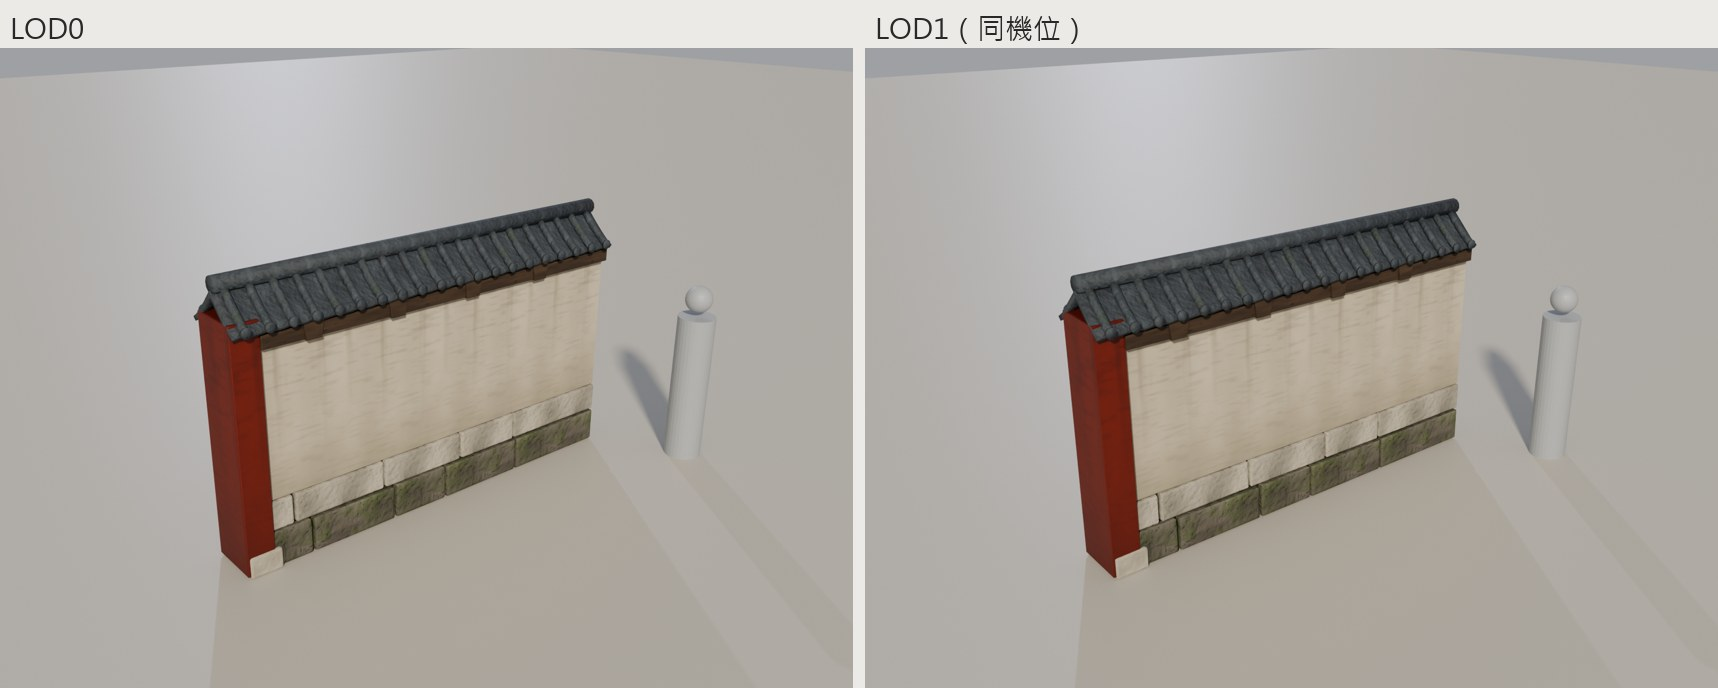
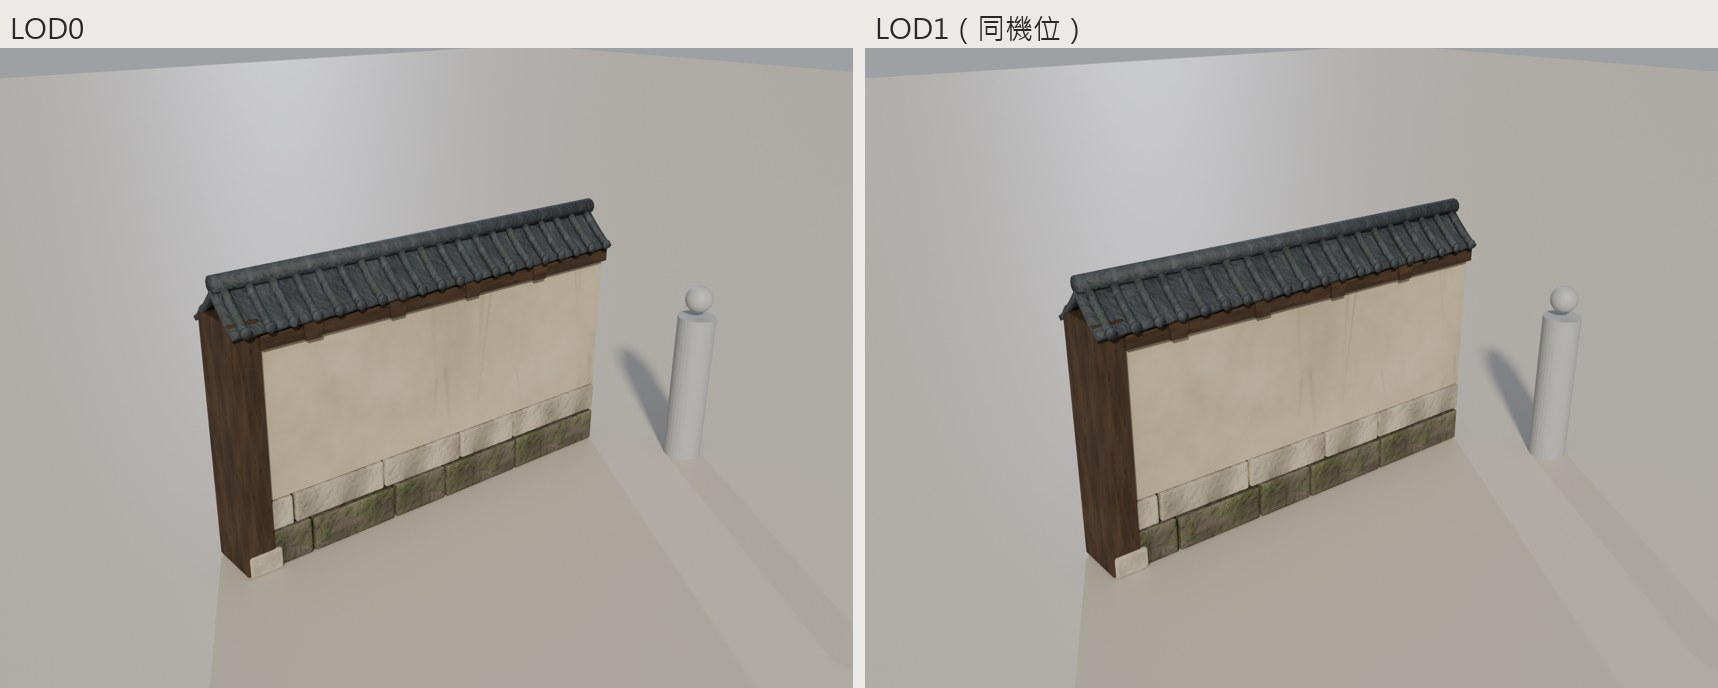
TX04: review round 1 - dark cedar wall post, lacquer on doors/plaque frame/lintel band, irregular TX04 plaster tile, close door gap

Changed region(s): [[0.617, 0.4578, 0.6787, 0.8241], [0.0925, 0.4578, 0.1851, 0.8241]]

diff --git a/art/source/tx04-branch-court/build_tx04.py b/art/source/tx04-branch-court/build_tx04.py
@@ -46,6 +46,30 @@ def accent(o):
     """move a finished part onto the accent material/group (its UVs are re-projected onto the plaster strip)"""
     mc.reuv(o, 'plaster'); o.data.materials.clear(); o.data.materials.append(mc.MAT['accent']); o['grp'] = 'Accent'; return o
 
+WALLTEX = ROOT / 'art/textures' / PKG
+def wall_material():
+    """M_TX04_Wall: the TX04 lime-plaster tile (gen_wall_tex.py, 4 x 4 m per 1024 px), irregular blotches and rain streaks"""
+    mat = bpy.data.materials.new('M_TX04_Wall'); mat.use_nodes = True; nt = mat.node_tree; bs = nt.nodes['Principled BSDF']
+    a = nt.nodes.new('ShaderNodeTexImage'); a.image = bpy.data.images.load(str(WALLTEX / 'T_TX04_Wall_Albedo.png'))
+    n = nt.nodes.new('ShaderNodeTexImage'); n.image = bpy.data.images.load(str(WALLTEX / 'T_TX04_Wall_Normal.png')); n.image.colorspace_settings.name = 'Non-Color'
+    nm = nt.nodes.new('ShaderNodeNormalMap'); nm.inputs['Strength'].default_value = .6
+    nt.links.new(a.outputs['Color'], bs.inputs['Base Color']); nt.links.new(n.outputs['Color'], nm.inputs['Color']); nt.links.new(nm.outputs['Normal'], bs.inputs['Normal'])
+    bs.inputs['Roughness'].default_value = .92; mc.MAT['wall'] = mat; return mat
+
+def wallmat(o, ztop, seed=0):
+    """put a plaster part on M_TX04_Wall: side faces U = along the face, V = height with the part's top edge at the tile top
+    (streaks hang from under the coping / lintel); a random U offset per part so neighbouring walls never repeat"""
+    bm = bmesh.new(); bm.from_mesh(o.data); lay = bm.loops.layers.uv.get('UVMap') or bm.loops.layers.uv.new('UVMap')
+    uoff = random.Random(seed * 131 + len(bm.verts)).random()
+    for f in bm.faces:
+        nrm = f.normal
+        for l in f.loops:
+            p = l.vert.co
+            if abs(nrm.z) < .7:
+                a = Vector((-nrm.y, nrm.x, 0)).normalized(); l[lay].uv = (p.dot(a) / 4 + uoff, 1 - (ztop - p.z) / 4)
+            else: l[lay].uv = (p.x / 4 + uoff, p.y / 4)
+    bm.to_mesh(o.data); bm.free(); o.data.materials.clear(); o.data.materials.append(mc.MAT['wall']); return o
+
 def socket(name, loc, rot=(0, 0, 0)):
     e = bpy.data.objects.new(name, None); e.empty_display_type = 'ARROWS'; e.empty_display_size = .3
     e.location = loc; e.rotation_euler = rot; bpy.context.scene.collection.objects.link(e); SOCKETS.append(e); return e
@@ -54,7 +78,7 @@ def area(o):
     return sum(p.area for p in o.data.polygons)
 
 def build(mid):
-    mc.clear(); mc.load_trim(); accent_material(); SOCKETS.clear()
+    mc.clear(); mc.load_trim(); accent_material(); wall_material(); SOCKETS.clear()
     meta = globals()[mid]() or {}; parts = mc.parts; lim = LIMITS[mid]; tag = f'TX04_{mid}'
     bad = []
     for o in parts:
@@ -97,13 +121,15 @@ def build(mid):
     lods = [{'lod': lv, 'triangles': sum(mc.tris(o) for o in d.values()), 'objects': len(d), 'materials': len({m.name for o in d.values() for m in o.data.materials})}
             for lv, d in ((0, lod0), (1, out[1]), (2, out[2]))]
     info = {'id': f'TX04-{mid.replace("_", "-")}', 'package': 'docs/execution/2026-11-05/A-48h-mountain-city-architecture.md', 'author': 'A (Johnnnny0823)',
-            'version': 'v001', 'status': 'Exported; Imported/Visually Verified/In-game Verified: 未驗',
+            'version': 'v002', 'status': 'Exported; Imported/Visually Verified/In-game Verified: 未驗',
             'dimensions_m': [round(d, 3) for d in dims], 'limit_m': list(lim), 'grid_m': 4.0, 'origin': 'footprint centre, bottom z = 0, -Y = front',
             'minTier': TIER[mid], 'lods': lods, 'objectsLOD0': [o.name for o in lod0.values()],
             'detailObjects': [g for g in lod0 if g.startswith('Detail_')], 'glowObjects': [g for g in lod0 if g == 'Glow'],
             'materials': sorted({m.name for o in lod0.values() for m in o.data.materials}),
-            'textures': {n: '2048x2048' for n in ('T_MountainStreet_Albedo', 'T_MountainStreet_Normal', 'T_MountainStreet_MetallicSmoothness', 'T_MountainStreet_Emission')},
-            'textureNote': 'shared MC01 trim sheet (art/textures/mountain-street-houses-a); the accent material reuses Albedo/Normal',
+            'textures': {**{n: '2048x2048' for n in ('T_MountainStreet_Albedo', 'T_MountainStreet_Normal', 'T_MountainStreet_MetallicSmoothness', 'T_MountainStreet_Emission')},
+                         **{n: '1024x1024' for n in ('T_TX04_Wall_Albedo', 'T_TX04_Wall_Normal')}},
+            'textureNote': 'shared MC01 trim sheet (art/textures/mountain-street-houses-a); the accent material reuses Albedo/Normal; '
+                           'M_TX04_Wall uses the TX04 plaster tile (art/textures/tx04-branch-court, 4 x 4 m per tile, tiles along U)',
             'accent': {'material': 'M_TX04_Accent', 'object': f'{tag}_Accent' if 'Accent' in lod0 else None, 'defaultColor': ACCENT_DEFAULT,
                        'surfaceShare': round(acc_share, 4), 'limit': .10, 'howToRecolor': 'set the base colour (Unity: _BaseColor) of M_TX04_Accent'},
             'sockets': [{'name': e.name, 'location_m': [round(x, 3) for x in e.location], 'rotation_deg': [round(math.degrees(r), 1) for r in e.rotation_euler]} for e in SOCKETS],
@@ -267,10 +293,10 @@ def GATE():
         za, zd = zb, zb + .8
         if axis == 'x':
             stone_block(f'{name}_dado', (b - a - .26, .30, zd - za), ((a + b) / 2, y, (za + zd) / 2), 'granite', seed=hash(name) % 997)
-            mc.box(f'{name}_plaster', (b - a - .24, .22, 3.35 - zd), ((a + b) / 2, y, (zd + 3.35) / 2), 'plaster', 'Main', bev=0)
+            wallmat(mc.box(f'{name}_plaster', (b - a - .24, .22, 3.35 - zd), ((a + b) / 2, y, (zd + 3.35) / 2), 'plaster', 'Main', bev=0), 3.35, len(mc.parts))
         else:
             stone_block(f'{name}_dado', (.30, b - a - .26, zd - za), (y, (a + b) / 2, (za + zd) / 2), 'granite', seed=hash(name) % 991)
-            mc.box(f'{name}_plaster', (.22, b - a - .24, 3.35 - zd), (y, (a + b) / 2, (zd + 3.35) / 2), 'plaster', 'Main', bev=0)
+            wallmat(mc.box(f'{name}_plaster', (.22, b - a - .24, 3.35 - zd), (y, (a + b) / 2, (zd + 3.35) / 2), 'plaster', 'Main', bev=0), 3.35, len(mc.parts))
     for r_, y in enumerate(rows):
         bay(f'GATE_bayL{r_}', colx[0], colx[1], y); bay(f'GATE_bayR{r_}', colx[2], colx[3], y)
     for sx in (-1, 1): bay(f'GATE_end{sx:+d}', rows[0], rows[1], sx * 2.05, axis='y')
@@ -287,12 +313,13 @@ def GATE():
     for sx in (-1, 1):
         mc.box(f'GATE_jamb{sx:+d}', (.18, .2, 3.45 - zb), (sx * .72, yd, (zb + 3.45) / 2), 'beam', 'Main', bev=.012, axis=(0, 0, 1))
         stone_block(f'GATE_middado{sx:+d}', (2.05 - .81 - .14, .26, .8), (sx * (.81 + (2.05 - .81 - .14) / 2), yd, zb + .4), 'granite', seed=7480 + sx)
-        mc.box(f'GATE_midplaster{sx:+d}', (2.05 - .81 - .13, .18, 3.35 - zb - .8), (sx * (.81 + (2.05 - .81 - .13) / 2), yd, (zb + .8 + 3.35) / 2), 'plaster', 'Main', bev=0)
+        wallmat(mc.box(f'GATE_midplaster{sx:+d}', (2.05 - .81 - .13, .18, 3.35 - zb - .8), (sx * (.81 + (2.05 - .81 - .13) / 2), yd, (zb + .8 + 3.35) / 2), 'plaster', 'Main', bev=0), 3.35, len(mc.parts))
     mc.beam('GATE_midbeam', (-2.0, yd, 3.5), (2.0, yd, 3.5), .176, .2, 'beam', 'Main', bev=.012)
     mc.beam('GATE_doorhead', (-.75, yd, zd1 + .05), (.75, yd, zd1 + .05), .2, .1, 'beam', 'Main', bev=.01)
     mc.beam('GATE_sill', (-.62, yd, zb + .06), (.62, yd, zb + .06), .2, .16, 'oldwood', 'Main', bev=.012)   # sunk 2 cm into the paving
     for sx in (-1, 1):
-        leaf = mc.box(f'GATE_door{sx:+d}', (.6, .07, zd1 - zd0 - .17), (sx * .305, yd, (zd0 + .16 + zd1) / 2), 'plaster', 'Main', bev=.008, axis=(0, 0, 1)); accent(leaf)
+        zl0, zl1 = zb + .135, zd1 + .005   # review #90: the leaf used to stop 4.5 cm above the sill (a light line); now it sits 5 mm into the sill and the door head
+        leaf = mc.box(f'GATE_door{sx:+d}', (.6, .07, zl1 - zl0), (sx * .305, yd, (zl0 + zl1) / 2), 'plaster', 'Main', bev=.008, axis=(0, 0, 1)); accent(leaf)
         for i in range(5):
             for j in range(5):
                 mc.lathe(f'GATE_nail{sx:+d}{i}{j}', [(.004, 0), (.022, 0), (.02, .012), (.008, .022), (.004, .024)], 'bronze', 'Main', seg=10)
@@ -302,7 +329,11 @@ def GATE():
         o.data.transform(Matrix.Translation((sx * .1, yd - .035, 1.81)) @ Vector((0, -1, 0)).to_track_quat('Z', 'Y').to_matrix().to_4x4())
     # blank plaque board on the front frieze: frame + blank field; the plaque socket sits on its face
     yp = rows[0] - .13
-    mc.box('GATE_plaqueframe', (1.36, .06, .5), (0, yp, 3.81), 'beam', 'Main', bev=.012, axis=(1, 0, 0))
+    accent(mc.box('GATE_plaqueframe', (1.36, .06, .5), (0, yp, 3.81), 'beam', 'Main', bev=.012, axis=(1, 0, 0)))
+    # review #90: lacquer only on the doors, the plaque frame and a thin band along the lintels (front and courtyard faces)
+    for r_, y in enumerate(rows):
+        sy = -1 if r_ == 0 else 1
+        accent(mc.box(f'GATE_lintelband{r_}', (4.46, .014, .045), (0, y + sy * (.1 + .005), 3.375), 'beam', 'Main', bev=.003, axis=(1, 0, 0)))
     mc.box('GATE_plaquefield', (1.16, .03, .34), (0, yp - .035, 3.81), 'oldwood', 'Main', bev=.004, axis=(1, 0, 0))
     socket('Socket_Plaque', (0, yp - .05, 3.81), (math.radians(90), 0, 0))
     roof = hipgable('GATE_roof', 2.92, 1.38, 1.32, base_z=4.12, wx=2.15, wy=.55, hip_run=.9, seed=7470)
@@ -330,8 +361,8 @@ def WALL_ST():
                             ((a + b) / 2, 0, (z0 + z1) / 2), 'granite_moss' if ci == 0 else 'granite', amt=.009, bev=.02, seed=7500 + ci * 30 + k)
             x = b; k += 1
     mc.box('WALL_core', (L - .1, T - .06, Hf - .05), (0, 0, (Hf - .05) / 2 + .03), 'dark', 'Main', bev=0)
-    mc.box('WALL_plaster', (L - .01, T, Hw - Hf), (0, 0, (Hf + Hw) / 2), 'plaster', 'Main', bev=0)
-    post = mc.box('WALL_post', (.26, T + .08, Hw + .08 - .02), (-L / 2 + .13, 0, (Hw + .08 + .02) / 2), 'plaster', 'Main', bev=.012, axis=(0, 0, 1)); accent(post)
+    wallmat(mc.box('WALL_plaster', (L - .01, T, Hw - Hf), (0, 0, (Hf + Hw) / 2), 'plaster', 'Main', bev=0), Hw, 7502)
+    mc.box('WALL_post', (.26, T + .08, Hw + .08 - .02), (-L / 2 + .13, 0, (Hw + .08 + .02) / 2), 'beam', 'Main', bev=.012, axis=(0, 0, 1))   # dark cedar like the gate columns (review #90)
     stone_block('WALL_postbase', (.3, T + .12, .2), (-L / 2 + .17, 0, .1), 'granite_top', seed=7590)
     for sy in (-1, 1):
         mc.beam(f'WALL_frieze{sy:+d}', (-L / 2 + .25, sy * (T / 2 + .03), Hw - .1), (L / 2, sy * (T / 2 + .03), Hw - .1), .06, .12, 'beam', 'Main', bev=.008)

diff --git a/art/source/tx04-branch-court/gen_wall_tex.py b/art/source/tx04-branch-court/gen_wall_tex.py
@@ -1,0 +1,89 @@
+"""TX04 lime-plaster wall texture (review on PR #90: the trim-sheet plaster read as vertical planks on the long academy walls).
+
+One 1024 x 1024 tile = 4 m x 4 m (256 px/m, the trim sheet's density). U runs along the wall and tiles; V = height, the top row
+is the top of the wall (build_tx04.wallmat anchors every wall's top edge there), so rain streaks hang from under the coping /
+lintel. Irregular on purpose: blotchy tone at three scales, a few repair patches, flaked spots showing the grey under-coat,
+and rain streaks of random length, width, strength and slant (never all the same direction).
+
+    python art/source/tx04-branch-court/gen_wall_tex.py   -> art/textures/tx04-branch-court/T_TX04_Wall_{Albedo,Normal}.png
+"""
+import math
+from pathlib import Path
+import numpy as np
+from PIL import Image
+
+HERE = Path(__file__).resolve().parent; ROOT = HERE.parents[2]
+OUT = ROOT / 'art/textures/tx04-branch-court'; OUT.mkdir(parents=True, exist_ok=True)
+N = 1024; PXM = 256; rng = np.random.default_rng(9004)
+
+def vnoise(cells_x, cells_y):
+    """tileable (in X and Y) value noise, smoothstep-interpolated"""
+    g = rng.random((cells_y, cells_x)); x = np.arange(N) * cells_x / N; y = np.arange(N) * cells_y / N
+    xi = x.astype(int); yi = y.astype(int); fx = x - xi; fy = y - yi; fx = fx * fx * (3 - 2 * fx); fy = fy * fy * (3 - 2 * fy)
+    a = g[np.ix_(yi % cells_y, xi % cells_x)]; b = g[np.ix_(yi % cells_y, (xi + 1) % cells_x)]
+    c = g[np.ix_((yi + 1) % cells_y, xi % cells_x)]; d = g[np.ix_((yi + 1) % cells_y, (xi + 1) % cells_x)]
+    fx = fx[None, :]; fy = fy[:, None]; return (a * (1 - fx) + b * fx) * (1 - fy) + (c * (1 - fx) + d * fx) * fy
+
+def fbm(c, octaves=4, gain=.5):
+    v = 0; amp = 1; tot = 0
+    for o in range(octaves): v = v + amp * vnoise(c * 2 ** o, c * 2 ** o); tot += amp; amp *= gain
+    return v / tot
+
+def warp_fbm(c, octaves=4, amt=.08):
+    """domain-warped fbm: breaks the grid look so blotches have ragged, non-repeating edges"""
+    base = fbm(c, octaves); wx = (fbm(3, 2) - .5) * amt * N; wy = (fbm(3, 2) - .5) * amt * N
+    yy, xx = np.mgrid[0:N, 0:N]; return base[((yy + wy).astype(int)) % N, ((xx + wx).astype(int)) % N]
+
+# base tone: the trim sheet's plaster mean, so TX04 walls sit next to MC01 plaster without a jump
+trim = np.asarray(Image.open(ROOT / 'art/textures/mountain-street-houses-a/T_MountainStreet_Albedo.png').convert('RGB'), np.float32) / 255
+band = trim[2048 - 1536 + 8:2048 - 1280 - 8]   # plaster strip (V 1280-1536 from the bottom), padding skipped
+base = band.reshape(-1, 3).mean(0); print('trim plaster mean', np.round(base * 255).astype(int))
+
+Y = (np.arange(N) / N)[:, None]   # 0 = wall top, 1 = 4 m below it
+blot = warp_fbm(2, 4, .12); mid = warp_fbm(6, 3, .06); fine = fbm(40, 2)
+tone = 1 + .10 * (blot - .5) * 2 + .05 * (mid - .5) * 2 + .02 * (fine - .5) * 2
+alb = np.ones((N, N, 3), np.float32) * base[None, None, :] * tone[..., None]
+hgt = .5 * mid + .25 * fine
+
+# repair patches: fresher, slightly cooler lime with ragged outlines
+edge = warp_fbm(10, 3, .1)
+for _ in range(5):
+    cx, cy = rng.uniform(0, N), rng.uniform(.05, .9) * N; rx, ry = rng.uniform(.15, .45) * PXM, rng.uniform(.12, .35) * PXM
+    yy, xx = np.mgrid[0:N, 0:N]; dx = (xx - cx + N / 2) % N - N / 2; dy = yy - cy
+    r = np.sqrt((dx / rx) ** 2 + (dy / ry) ** 2) + 1.1 * (edge - .5) * 2   # strongly ragged outline, not an ellipse
+    m = np.clip((1 - r) * 3, 0, 1) * rng.uniform(.4, 1.0)
+    alb = alb * (1 - m[..., None]) + (alb * np.array([1.03, 1.035, 1.04]))[...] * m[..., None]; hgt = hgt + .12 * m
+
+# flaked spots: the grey-brown under-coat shows through, a little recessed
+under = np.array([.52, .49, .44])
+flake = np.clip((warp_fbm(9, 3, .05) - .70) * 7, 0, 1) * np.clip((fbm(2, 2) - .45) * 3, 0, 1)
+alb = alb * (1 - .85 * flake[..., None]) + under[None, None, :] * .85 * flake[..., None]; hgt = hgt - .6 * flake
+
+# rain streaks from the top edge: random x, length 0.25-1.6 m, width 1.5-14 cm, strength, slant -10..+10 deg, wobble
+streak = np.zeros((N, N), np.float32); yy, xx = np.mgrid[0:N, 0:N]
+clusters = rng.uniform(0, N, 6)   # streaks gather where water runs off (joints, ends), not evenly like a comb
+for _ in range(24):
+    x0 = (rng.choice(clusters) + rng.normal(0, .25 * PXM)) % N if rng.random() < .7 else rng.uniform(0, N)
+    L = rng.uniform(.2, 1.7) * PXM; s = rng.uniform(.2, .9)
+    w = rng.uniform(.015, .05) * PXM if rng.random() < .6 else rng.uniform(.1, .3) * PXM   # thin runs and broad faint stains
+    if w > .09 * PXM: s *= .5
+    slant = math.tan(math.radians(rng.uniform(-10, 10))); wob = rng.uniform(2, 10); ph = rng.uniform(0, math.tau)
+    y0 = (rng.uniform(0, .03) if rng.random() < .6 else rng.uniform(.05, .35)) * N   # under the coping, or from a crack lower down
+    t = (yy - y0) / L; cxs = x0 + slant * (yy - y0) + wob * np.sin(yy / rng.uniform(40, 120) + ph)
+    dx = (xx - cxs + N / 2) % N - N / 2
+    wt = w * (1 - .6 * np.clip(t, 0, 1))   # narrows downwards
+    prof = np.exp(-(dx / np.maximum(wt, 1)) ** 2 * 2) * np.clip(t * 12, 0, 1) * np.clip(1 - t, 0, 1) ** 1.6
+    streak = np.maximum(streak, s * prof * (t >= 0))
+streak = streak * (.6 + .4 * fine)
+grime = np.array([.40, .38, .33])
+alb = alb * (1 - .30 * streak[..., None]) + grime[None, None, :] * .30 * streak[..., None] * .4
+# a soft overall darkening near the top (drip zone) and a faint damp band lower down
+alb = alb * (1 - .03 * np.exp(-Y / .04) * (.5 + blot))[..., None] * (1 - .04 * np.clip((Y - .45) * 3, 0, 1) * blot)[..., None]
+hgt = hgt + .1 * streak
+
+alb = np.clip(alb, 0, 1)
+Image.fromarray((alb * 255 + .5).astype(np.uint8)).save(OUT / 'T_TX04_Wall_Albedo.png')
+s = 1.6; dx = (np.roll(hgt, -1, 1) - np.roll(hgt, 1, 1)) * s; dy = (np.roll(hgt, -1, 0) - np.roll(hgt, 1, 0)) * s
+n = np.dstack([-dx, dy, np.ones_like(hgt)]); n /= np.linalg.norm(n, axis=2, keepdims=True)
+Image.fromarray(((n * .5 + .5) * 255 + .5).astype(np.uint8)).save(OUT / 'T_TX04_Wall_Normal.png')
+print('wrote', OUT / 'T_TX04_Wall_Albedo.png', 'mean', np.round(alb.reshape(-1, 3).mean(0) * 255).astype(int))

diff --git a/tools/mountain-city-a/make_prompts_tx04.py b/tools/mountain-city-a/make_prompts_tx04.py
@@ -21,6 +21,30 @@ SCOPE = {
     'TX04-WALL-ST': (' Show only this one straight 4 m wall segment: both ends cut square to join the next segment, the tiled coping '
                      'running the full length; no gate, no corner, no buildings or trees behind it.',
                      'gate, doorway, corner, buildings behind, trees, lettering, decorative tiles with patterns of text'),
+    'TX04-WALL-CO': (' Show only this one L-shaped corner wall: two 4 m arms meeting at ninety degrees around a dark cedar corner post on a '
+                     'stone base, cut-stone footing and lime plaster on both arms, the tiled coping turning the corner continuously; both arm '
+                     'ends cut square to join the next segment; posts are dark timber, not red; no gate, no buildings or trees behind.',
+                     'gate, doorway, buildings behind, trees, red columns, lettering, decorative tiles with patterns of text'),
+    'TX04-WALL-DO': (' Show only this one 4 m wall segment that ends at a doorway: one end finished with a fitted dark cedar jamb post on a '
+                     'stone base and a short return of the coping, the other end cut square to join the next segment; the opening itself, '
+                     'any door leaf and any gate roof are not part of it; posts are dark timber, not red.',
+                     'door leaves, full gatehouse, archway, roof over the door, buildings behind, trees, red columns, lettering'),
+    'TX04-HALL': (' Show only this one main hall: a single-storey hall on a raised granite platform with front steps, a front verandah '
+                  'of dark cedar columns on stone bases, timber doors and windows with vertical slats (no square grids), plastered end '
+                  'walls, a blank framed entrance board, bracket sets under deep eaves and a hip-and-gable roof; columns are dark timber, '
+                  'red lacquer only on the central door leaves; no courtyard walls, no side buildings, no lettering anywhere.',
+                  'side wings, courtyard walls, lettering, couplets, stone lions, banners, multi-storey pagoda, red columns, square grid windows'),
+    'TX04-SIDE': (' Show only this one side wing: a single-storey building on a low stone base, dark cedar posts and beams, lime '
+                  'plastered walls over a stone dado, narrow windows with vertical slats (no square grids), one plain door, a simple '
+                  'tiled roof with modest eaves; posts are dark timber, not red; no main hall, no courtyard walls, no lettering.',
+                  'main hall, courtyard walls, square grid windows, shoji, red columns, lettering, banners'),
+    'TX04-PAVE': (' Show only this one flat 4 m by 4 m courtyard paving bay: fitted pale granite slabs laid in staggered courses inside '
+                  'a narrow border of long kerb stones, edges worn and slightly uneven, a little moss and grass in a few joints; nothing '
+                  'standing on it.',
+                  'buildings, walls, stairs, trees, people, lettering, mosaic patterns, circular patterns, tiles with text'),
+    'TX04-STEPS': (' Show only this one standalone stone stair: 4 m wide and 2 m deep, five shallow worn granite treads between two '
+                   'sloping cheek stones, no handrail, nothing built on top or behind it.',
+                   'buildings, gate, walls, handrails, balustrade, lettering, statues'),
 }
 items = {}
 for k, (scope, neg) in SCOPE.items():

diff --git a/art/exports/tx04-branch-court/README.md b/art/exports/tx04-branch-court/README.md
@@ -3,14 +3,28 @@
 | 誰做的 | A（Johnnnny0823） |
 | 工作包 | docs/execution/2026-11-05/A-48h-mountain-city-architecture.md（TX04；併入 docs/execution/2026-11-08/A-80h-mountain-city.md 第一部分） |
 | ID | TX04 樣品：TX04-GATE 院門、TX04-WALL-ST 直牆（其餘 6 件等樣品過審再做） |
-| 分支／PR | art/a-1105-tx04-branch-court ／ PR 待開 |
-| 版本 | v001 |
+| 分支／PR | art/a-1105-tx04-branch-court ／ z1nnz/chengtian#90 |
+| 版本 | v002（#90 第一輪審查修改） |
 | 狀態 | Exported；Imported／Visually Verified／In-game Verified：未驗（只有 Blender 預覽與 FBX 回匯檢查） |
-| 素材來源 | 原創。建模腳本 `art/source/tx04-branch-court/build_tx04.py`，沿用 MC01（PR #80 已合併）的建模函式與共用貼圖；三視圖用 Codex CLI 生成，存 `art/references/TX04-*/` |
+| 素材來源 | 原創。建模腳本 `art/source/tx04-branch-court/build_tx04.py`，沿用 MC01（PR #80 已合併）的建模函式與共用貼圖；白灰牆貼圖由 `gen_wall_tex.py` 程序生成；三視圖用 Codex CLI 生成，存 `art/references/TX04-*/` |
 
 # TX04 太玄分院模組：樣品批
 
 依 11/07 規則「一批很多件，先做一件樣品」：TX04 共 8 件（院門、直／角／門邊牆、正堂、廂房、院鋪地、石階）。先交**院門 GATE**和**一段直牆 WALL-ST**，請確認尺度、朱漆換色和空插槽的做法，過了再做其餘 6 件和分院組裝。
+
+## v002：#90 第一輪審查修改
+
+審查結論：尺度、朱漆換色、插槽位置都可以。改了下面三點：
+
+- **朱漆柱不一致**：直牆端柱改成和院門柱子一樣的深色杉木，直牆不再有朱漆。院門的朱漆集中在門扇、匾框，以及前後額枋下緣一條 4.5 cm 的細邊。朱漆比例：院門 2.9 %，直牆 0 %。
+- **白灰牆像木板**：原因是共用 Trim Sheet 的灰泥條只有 1 m 高，且雨痕是同方向的細條，2.5 m 高的牆面被壓縮後，看起來像直拼木板。
+  - 新增 TX04 專用的白灰牆貼圖 `T_TX04_Wall_*`，1024 px 對應 4 × 4 m，和 Trim Sheet 一樣是 256 px/m，用 `M_TX04_Wall` 材質。
+  - 貼圖內容：三種尺度的不規則斑駁、幾塊補灰、露出底灰的剝落點。雨痕長短、粗細、深淺各不相同，傾斜在 ±10° 之間，並聚在幾處流水的位置。
+  - 牆頂固定對齊貼圖頂端，雨痕從壓頂或額枋下方往下流。每面牆的 U 方向隨機偏移，相鄰牆面不會重複。
+  - 底色取共用灰泥條的平均色，和 MC01 的白灰相接時不會跳色。MC01 的 Trim Sheet 沒有改動。
+- **門扇底部亮線**：是漏光的縫。門扇原本停在門檻上方 4.5 cm，現在下緣伸進門檻 5 mm、上緣伸進門頭 5 mm。
+
+代價：每件多 1 個材質，院門 3 個、直牆 2 個；貼圖多 1 組 1024²。
 
 ## 和 MC01 共用的部分
 
@@ -21,8 +35,8 @@
 
 | 接口 | 做法 |
 |---|---|
-| `_Accent`（道統色） | 朱漆的部件合成 `TX04_<ID>_Accent` 物件，用 `M_TX04_Accent` 材質。<br>材質的底色是一個顏色參數（太玄預設 `#8E2F25`），乘在 Trim Sheet 的灰泥條上，所以換色後雨痕和磨損還在。<br>Unity 裡改 `M_TX04_Accent` 的 `_BaseColor` 就能換成其他道統色。 |
-| 朱漆比例 | 每件的朱漆面積寫在 `model_info.json` 的 `accent.surfaceShare`，建模腳本會擋下超過 10 % 的件。<br>院門 2.1 %（只有門扇），直牆 5.4 %（只有端柱）。 |
+| `_Accent`（道統色） | 朱漆的部件（門扇、匾框、額枋細邊）合成 `TX04_<ID>_Accent` 物件，用 `M_TX04_Accent` 材質。<br>材質的底色是一個顏色參數（太玄預設 `#8E2F25`），乘在 Trim Sheet 的灰泥條上，所以換色後雨痕和磨損還在。<br>Unity 裡改 `M_TX04_Accent` 的 `_BaseColor` 就能換成其他道統色。 |
+| 朱漆比例 | 每件的朱漆面積寫在 `model_info.json` 的 `accent.surfaceShare`，建模腳本會擋下超過 10 % 的件。<br>院門 2.9 %（門扇、匾框、額枋細邊），直牆 0 %（端柱改深色木）。 |
 | `Socket_Plaque` | 院門匾面中央的空物件，Z 軸朝前（−Y），放 TX01 的匾；匾框是空白的。 |
 | `Socket_Emblem` | 院門正脊中央上方的空物件，留給之後的道統徽記。 |
 
@@ -32,8 +46,8 @@
 
 | ID | 尺寸 W×D×H（m） | LOD0 / LOD1 / LOD2 三角面 | 物件數 | 材質數 | 朱漆 | 碰撞 |
 |---|---|---|---|---|---|---|
-| TX04-GATE 院門 | 5.98 × 2.99 × 5.713 | 72,140 / 34,304 / 10,290 | 2（主體、`_Accent`） | 2 | 2.1 % | 5 個盒（台基、石階、兩側牆體、屋頂） |
-| TX04-WALL-ST 直牆 | 4.0 × 0.68 × 2.477 | 15,216 / 7,068 / 2,120 | 2（主體、`_Accent`） | 2 | 5.4 % | 1 個盒 |
+| TX04-GATE 院門 | 5.98 × 2.99 × 5.713 | 72,356 / 33,560 / 10,066 | 2（主體、`_Accent`） | 3 | 2.9 % | 5 個盒（台基、石階、兩側牆體、屋頂） |
+| TX04-WALL-ST 直牆 | 4.0 × 0.68 × 2.477 | 15,216 / 7,608 / 2,282 | 1（主體） | 2 | 0 % | 1 個盒 |
 
 - **原點**：底面中心、z＝0；Blender −Y 是正面。
 - **院門**：
@@ -41,7 +55,7 @@
   - 門洞淨寬 1.24 m、淨高 2.86 m。
 - **直牆**：
   - 4 m 一段，兩端切平，可以接下一段。
-  - 朱漆柱只在 −X 端，連續拼牆時每 4 m 一根，最後一段由轉角或門邊牆收尾。
+  - 深色木端柱只在 −X 端，連續拼牆時每 4 m 一根，最後一段由轉角或門邊牆收尾。
 - **LOD 與格式**：LOD0 不為數字減面；LOD1 ≤ 50 %、LOD2 ≤ 15 %。只交 FBX，內含 LOD0/1/2、`_Collision` 和兩個插槽空物件。
 - **效能**：不寫 FPS；手機未實測。
 
@@ -50,16 +64,16 @@
 - **院門**（三視圖 option4）：
   - 結構：花崗石台基（邊石＋鋪石）、三級石階和兩側垂帶石、8 根深色杉木柱立在蓮瓣鼓墩上。
   - 牆面：兩側開間是石牆裙加白灰牆；中間門框平面有門框柱、中樑和兩側白牆。
-  - 門：朱漆雙扇門，每扇 25 顆銅門釘，加鋪首和門環。
+  - 門：朱漆雙扇門，每扇 25 顆銅門釘，加鋪首和門環；匾框和額枋下緣細邊也是朱漆。
   - 簷下：前後額枋、平板枋、墊栱板，各 5 組一斗三升。
   - 屋頂：歇山頂，用 MC01 RF01 的做法改寫成可指定長寬的函式。之後的正堂（14 × 10 m）和廂房（8 × 5 m）會沿用。
-- **直牆**（三視圖 option2）：兩層錯縫花崗石牆腳、白灰牆、朱漆端柱和石柱座、兩面木額枋帶小斗、雙坡筒瓦壓頂（瓦當、正脊）。
+- **直牆**（三視圖 option2）：兩層錯縫花崗石牆腳、白灰牆、深色木端柱和石柱座、兩面木額枋帶小斗、雙坡筒瓦壓頂（瓦當、正脊）。
 
 ## 驗收紀錄
 
 - **Blender 資產 QA**（blender-asset-qa `qa_check`，game profile，每個 LOD0 物件單獨掃，z-fighting／懸空都有跑）：結果存 `art/source/tx04-branch-court/qa_sample.json`。
   - 兩件主體和 `_Accent` 沒有 z-fighting、沒有翻面或破面。
-  - 院門主體單獨掃會報 40 個「懸空」：都是門釘、鋪首、門環，它們釘在朱漆門扇上，而門扇屬於 `_Accent` 物件。兩個物件合在一起再掃，懸空＝0。
+  - 院門主體單獨掃會報 40 個「懸空」：都是門釘、鋪首、門環，它們釘在朱漆門扇上，而門扇屬於 `_Accent` 物件。兩個物件合在一起再掃，懸空＝0（`_Accent` 單獨掃時的門扇、匾框、額枋細邊也一樣）。
 - **FBX 回匯**：尺寸與建模時相同（誤差 0）。
 - **Unity**：尚未匯入（未驗），全套做完再跑。
 
@@ -74,11 +88,12 @@
 ## 怎麼重跑
 
 ```
+python art/source/tx04-branch-court/gen_wall_tex.py
 python tools/mountain-city-a/make_prompts_tx04.py
 python tools/mountain-city-a/gen_threeviews.py --prompts prompts_tx04.json TX04-GATE TX04-WALL-ST
 blender -b --factory-startup -P art/source/tx04-branch-court/build_tx04.py -- GATE WALL_ST
 blender -b --factory-startup -P art/source/tx04-branch-court/qa_tx04.py -- <out.json> GATE WALL_ST
-blender -b --factory-startup -P art/source/tx04-branch-court/render_tx04.py -- --out art/previews/tx04-branch-court [--clay|--wire|--nodetail|--lod 1] GATE WALL_ST
+blender -b --factory-startup -P art/source/tx04-branch-court/render_tx04.py -- --out <repo 絕對路徑>/art/previews/tx04-branch-court [--clay|--wire|--nodetail|--lod 1] GATE WALL_ST
 blender -b --factory-startup -P art/source/tx04-branch-court/assemble_tx04.py -- [--clay]
 python art/source/tx04-branch-court/sheets_tx04.py GATE WALL_ST
 ```
@@ -94,3 +109,5 @@ python art/source/tx04-branch-court/sheets_tx04.py GATE WALL_ST
 ## 工時
 
 約 2 小時（11/09，含讀包、三視圖生成與選圖、屋頂函式、建模、QA 修正），由 Claude Code 執行。
+
+v002 修改約 1 小時（11/09，牆面貼圖、朱漆位置、門縫、重出預覽）。
